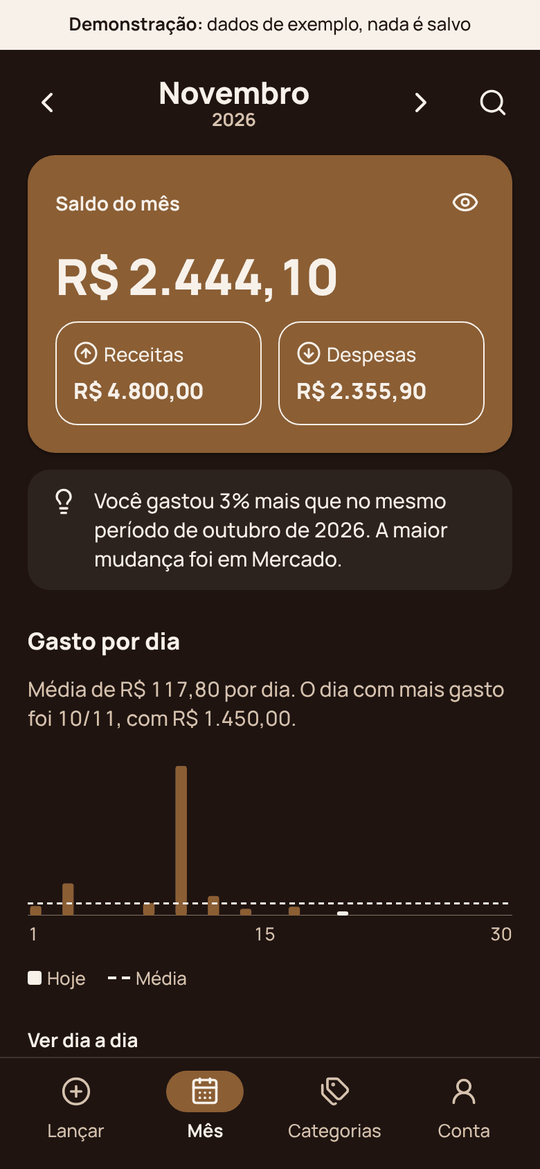
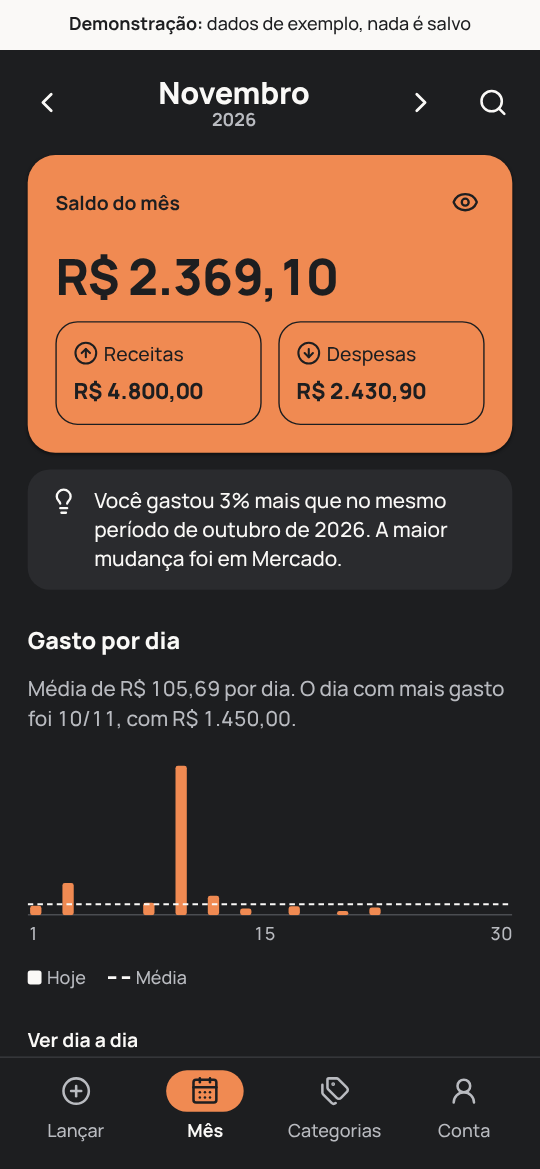
chore: revisar a identidade e lançar a v0.8.0 (#243)

diff --git a/CLAUDE.md b/CLAUDE.md
@@ -14,10 +14,9 @@ produção.
 - **Protótipo antigo:** `legacy/prototype-sqlite`, congelado. Não evoluir; serve só de referência.
 - **Decisões:** `docs/adr/`. **Arquitetura:** `docs/architecture/overview.md`. **Roadmap:** `docs/roadmap.md`.
 
-**Foco atual:** M6.5 (Guardá, v0.8.0): o app passa a se chamar **Guardá**, com a paleta Guará e a
-logo nova. Issues na ordem do `docs/roadmap.md`, uma de cada vez. Depois, planejar o **M7 (Produção,
-v1.0.0)** com o autor, incluindo o bloco de segurança combinado antes de abrir o app para usuários.
-Os ADRs antigos chamam a Produção de "M6". Não planejar nem implementar o M7 antes de combinar com o autor.
+**Foco atual:** M6.5 (Guardá) concluído (v0.8.0). Próximo: planejar o **M7 (Produção, v1.0.0)** com
+o autor, incluindo o bloco de segurança combinado antes de abrir o app para usuários. Os ADRs antigos
+chamam a Produção de "M6". Não planejar nem implementar o M7 antes de combinar com o autor.
 
 ## Sobre quem conduz o projeto
 
@@ -177,13 +176,13 @@ cd web && npm ci && npm run dev                 # PWA em desenvolvimento (M3)
   movimento com "reduzir movimento"; README com cara de produto. Testes de tela no `StrictMode`,
   como o app (#223). Revisão da release no navegador real (axe, teclado, zoom 200%, 320px, temas)
   (#198).
-- **M6.5 (Guardá, v0.8.0) em andamento:** nova identidade antes da Produção. Nome Guardá (`guarda`
-  no código), paleta Guará, logo "espiando a moeda" com a cara do mascote (uma versão só, também no favicon),
-  e o nome novo no app, no pacote Java, nas chaves do aparelho (sem migração) e no repositório
-  (`Guarda`; demonstração em `/Guarda/`). Escopo e decisões em `docs/roadmap.md`. Concluídas: ADR-0033
-  (#229), paleta (#230), logo (#231), nome no app (#232), pacote do backend (#233) e documentação
-  (#234). Falta a revisão e a release (prints novos no README entram nela).
-- **Depois: M7 (Produção, v1.0.0).** Planejar com o autor antes de implementar.
+- **M6.5 (Guardá, v0.8.0) concluído:** nova identidade antes da Produção (ADR-0033, #229). Nome
+  Guardá (`guarda` no código), paleta Guará (#230), logo "espiando a moeda" com a cara do mascote,
+  numa versão só, também no favicon (#231), o nome no app com o "á" em destaque (#232), no pacote
+  Java e no ambiente local (#233), e no repositório `Guarda`, com a demonstração em `/Guarda/`
+  (#234). Chaves do aparelho e banco local sem migração. Revisão da release com axe em todas as
+  telas, nos dois temas, em 320px e no computador, e prints novos no README (#235).
+- **Próximo: M7 (Produção, v1.0.0).** Planejar com o autor antes de implementar.
 - **Pendências registradas:** override do `glob` no `web/package.json` até o `workbox-build` pedir
   uma versão corrigida (ADR-0015); alerta do `deepmerge` (só build, sem correção) dispensado com
   motivo; alertas do `picomatch` (ReDoS, só build e testes, sem versão corrigida publicada)

diff --git a/CHANGELOG.md b/CHANGELOG.md
@@ -8,6 +8,15 @@ Enquanto a versão for `0.x`, a API pode mudar sem aviso.
 
 ## [Não lançado]
 
+## [0.8.0] - 2026-11-23
+
+Guardá (M6.5): antes da Produção, o projeto ganhou uma identidade própria. O app passa a se chamar
+**Guardá**, inspirado no lobo-guará, que já era o mascote, com a paleta Guará (grafite, tons neutros
+e o laranja do guará) e uma logo nova, o lobo "espiando a moeda". O nome novo vale no app, no
+backend, no repositório e na demonstração. Não há usuários reais ainda, então nada foi migrado: o
+tema escolhido, a fila offline e o banco local começam do zero. O app continua sendo de
+desenvolvimento: a hospedagem na internet é o M7.
+
 ### Alterado
 - Paleta Guará no app (#230, ADR-0033): grafite e tons neutros com o laranja do lobo-guará como
   destaque, nos dois temas, também na barra do sistema e na tela de abertura do app instalado. No
@@ -410,11 +419,12 @@ negócio: a aplicação sobe, conecta no PostgreSQL, aplica o schema e expõe o 
 ### Removido
 - Arquivos de IDE (`.idea/`) e banco de dados local (`data/*.db`) removidos do versionamento.
 
-[Não lançado]: https://github.com/IgorPacheco1/Easy-finance/compare/v0.7.0...HEAD
-[0.7.0]: https://github.com/IgorPacheco1/Easy-finance/compare/v0.6.0...v0.7.0
-[0.6.0]: https://github.com/IgorPacheco1/Easy-finance/compare/v0.5.0...v0.6.0
-[0.5.0]: https://github.com/IgorPacheco1/Easy-finance/compare/v0.4.0...v0.5.0
-[0.4.0]: https://github.com/IgorPacheco1/Easy-finance/compare/v0.3.0...v0.4.0
-[0.3.0]: https://github.com/IgorPacheco1/Easy-finance/compare/v0.2.0...v0.3.0
-[0.2.0]: https://github.com/IgorPacheco1/Easy-finance/compare/v0.1.0...v0.2.0
-[0.1.0]: https://github.com/IgorPacheco1/Easy-finance/releases/tag/v0.1.0
+[Não lançado]: https://github.com/IgorPacheco1/Guarda/compare/v0.8.0...HEAD
+[0.8.0]: https://github.com/IgorPacheco1/Guarda/compare/v0.7.0...v0.8.0
+[0.7.0]: https://github.com/IgorPacheco1/Guarda/compare/v0.6.0...v0.7.0
+[0.6.0]: https://github.com/IgorPacheco1/Guarda/compare/v0.5.0...v0.6.0
+[0.5.0]: https://github.com/IgorPacheco1/Guarda/compare/v0.4.0...v0.5.0
+[0.4.0]: https://github.com/IgorPacheco1/Guarda/compare/v0.3.0...v0.4.0
+[0.3.0]: https://github.com/IgorPacheco1/Guarda/compare/v0.2.0...v0.3.0
+[0.2.0]: https://github.com/IgorPacheco1/Guarda/compare/v0.1.0...v0.2.0
+[0.1.0]: https://github.com/IgorPacheco1/Guarda/releases/tag/v0.1.0

diff --git a/docs/roadmap.md b/docs/roadmap.md
@@ -222,7 +222,7 @@ Entraram no M6 antes da revisão, a partir do uso no celular e da comparação c
 | Layout da Conta (#217) | Perfil centralizado, listas com ícones, instalar o app, privacidade em tela própria |
 | Testes no `StrictMode` (#223) | Os testes de tela rodam como o app |
 
-## M6.5: Guardá (v0.8.0, em andamento)
+## M6.5: Guardá (v0.8.0, concluído)
 
 **Objetivo:** antes da Produção, dar ao projeto uma identidade própria. "Easy Finance" é um nome
 genérico, difícil de achar e de registrar; o app passa a se chamar **Guardá**, inspirado no
@@ -258,6 +258,13 @@ divulgados, domínio, e-mails e o app instalado nos celulares. Escopo combinado 
 | 6 | Pacote e artefato do backend | `guarda` no pacote Java, pom, compose e banco local |
 | 7 | Repositório e documentação | Repositório `Guarda`, demonstração, links, docs e imagens |
 | 8 | Revisão e v0.8.0 | Revisão no navegador real, docs e release |
+
+### Como terminou
+
+- A logo ficou numa versão só, também no favicon: a versão simplificada foi dispensada (#231,
+  registrado no ADR-0033).
+- No nome da logo, o "á" vem na cor de destaque, como no protótipo (#232).
+- O domínio provisório (`guaraapp.com.br`) entra no ADR quando o app for hospedado, no M7.
 
 ## Depois do M6.5
 
